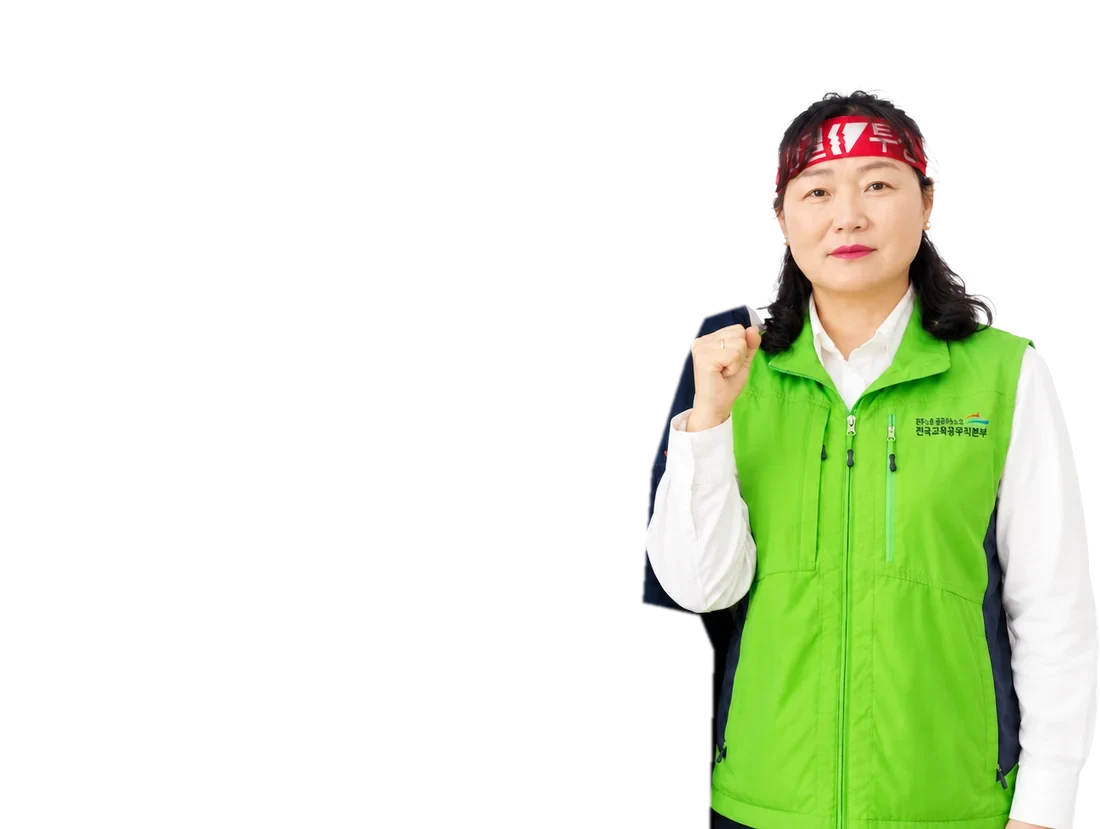
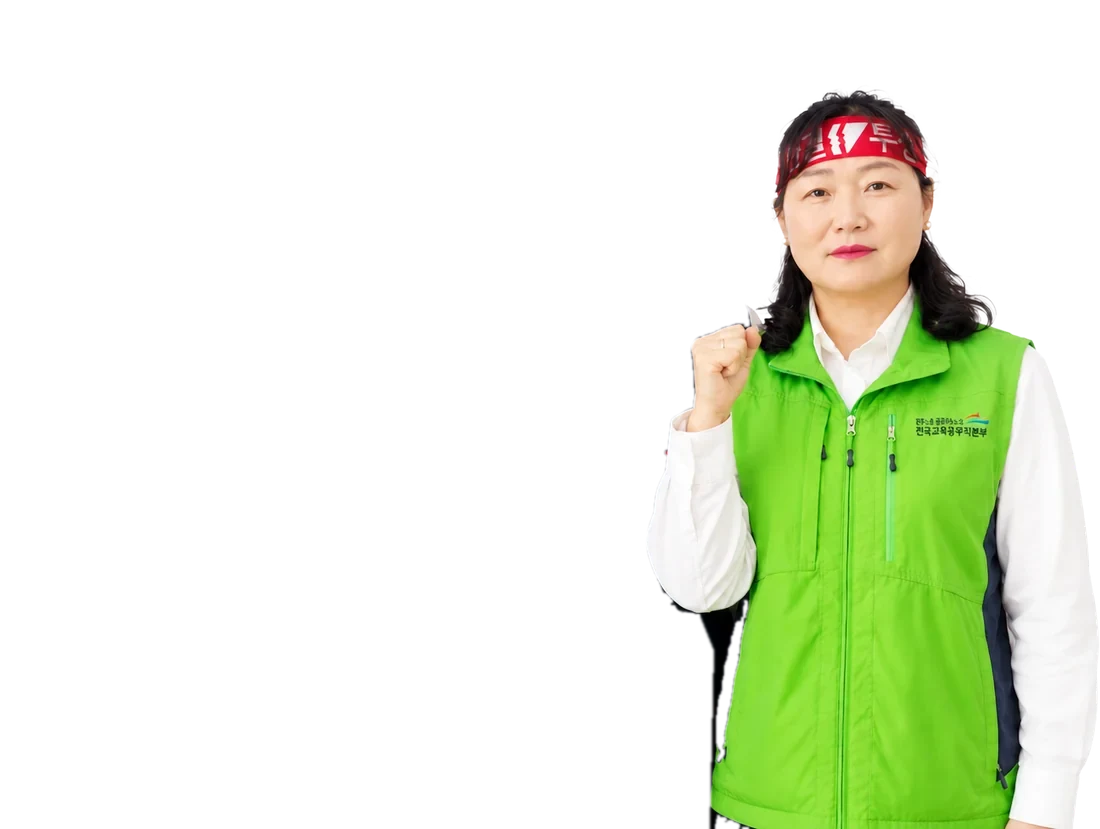
후보 등장 순서 앞→뒤, 잘린 면 정리
Claude-Session: https://claude.ai/code/session_011vjFJDznm8W3z6eYVTHiVJ

diff --git a/index.html b/index.html
@@ -300,12 +300,12 @@ footer b{color:var(--ink)}
 .board .ppl .p{position:absolute;inset:0;width:100%;height:100%}
 .board .p1{z-index:1}.board .p2{z-index:2}.board .p3{z-index:3}
 .board .stage .names{display:grid!important;z-index:5}
-@keyframes rise{from{transform:translateY(34%);opacity:0}60%{opacity:1}to{transform:none;opacity:1}}
+@keyframes rise{from{transform:translateY(22%);opacity:0}45%{opacity:1}to{transform:none;opacity:1}}
 @keyframes drop{from{transform:translateY(-30px) scale(1.06);opacity:0}to{transform:none;opacity:1}}
 @media (prefers-reduced-motion:no-preference){
   .board .slg{animation:drop .8s cubic-bezier(.2,.8,.2,1) .1s both}
   .board .ppl .p{animation:rise .9s cubic-bezier(.18,.9,.25,1.08) both}
-  .board .ppl .p1{animation-delay:.55s}.board .ppl .p3{animation-delay:.85s}.board .ppl .p2{animation-delay:1.15s}
+  .board .ppl .p3{animation-delay:.55s}.board .ppl .p2{animation-delay:.85s}.board .ppl .p1{animation-delay:1.15s}
   .board .names a:nth-child(1){animation-delay:1.5s!important}.board .names a:nth-child(2){animation-delay:1.65s!important}.board .names a:nth-child(3){animation-delay:1.8s!important}
   .vision a:nth-child(1){animation-delay:1.9s!important}.vision a:nth-child(2){animation-delay:2.05s!important}.vision a:nth-child(3){animation-delay:2.2s!important}
 }
